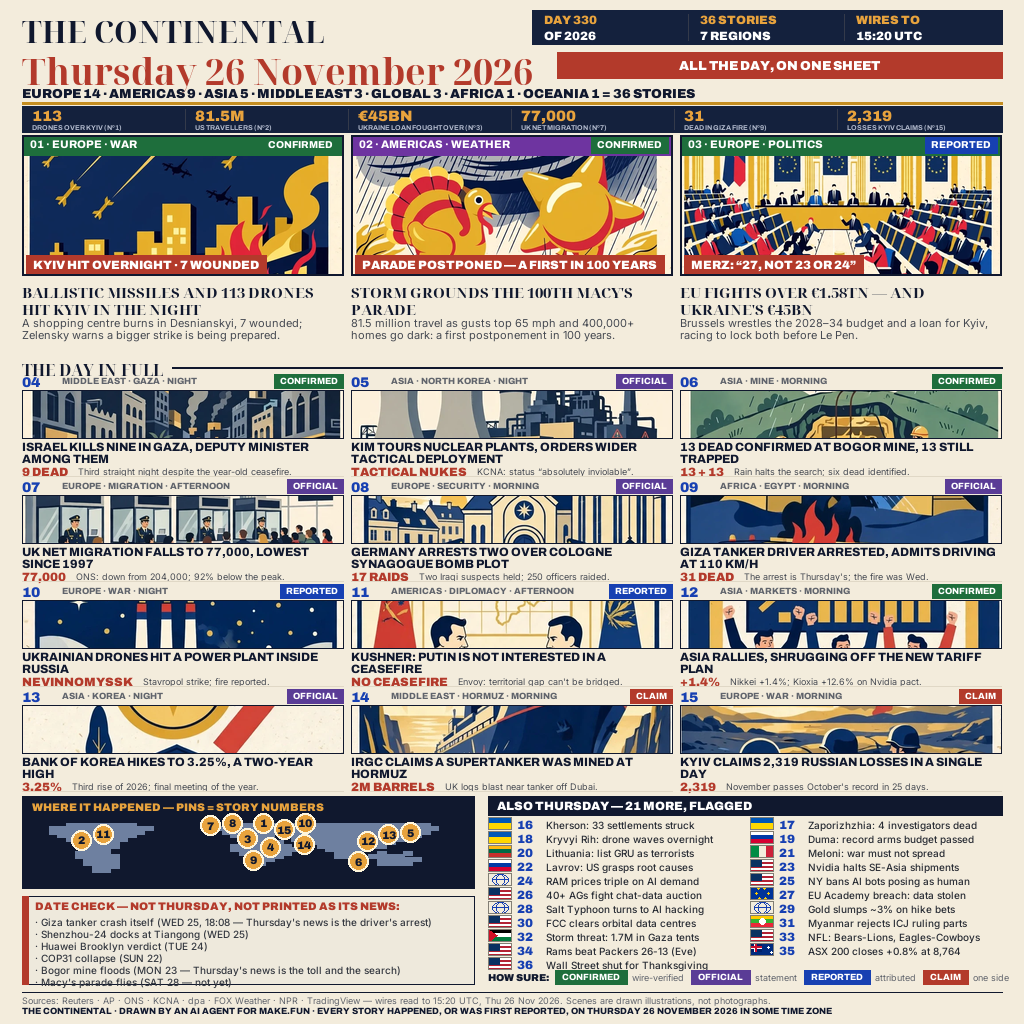
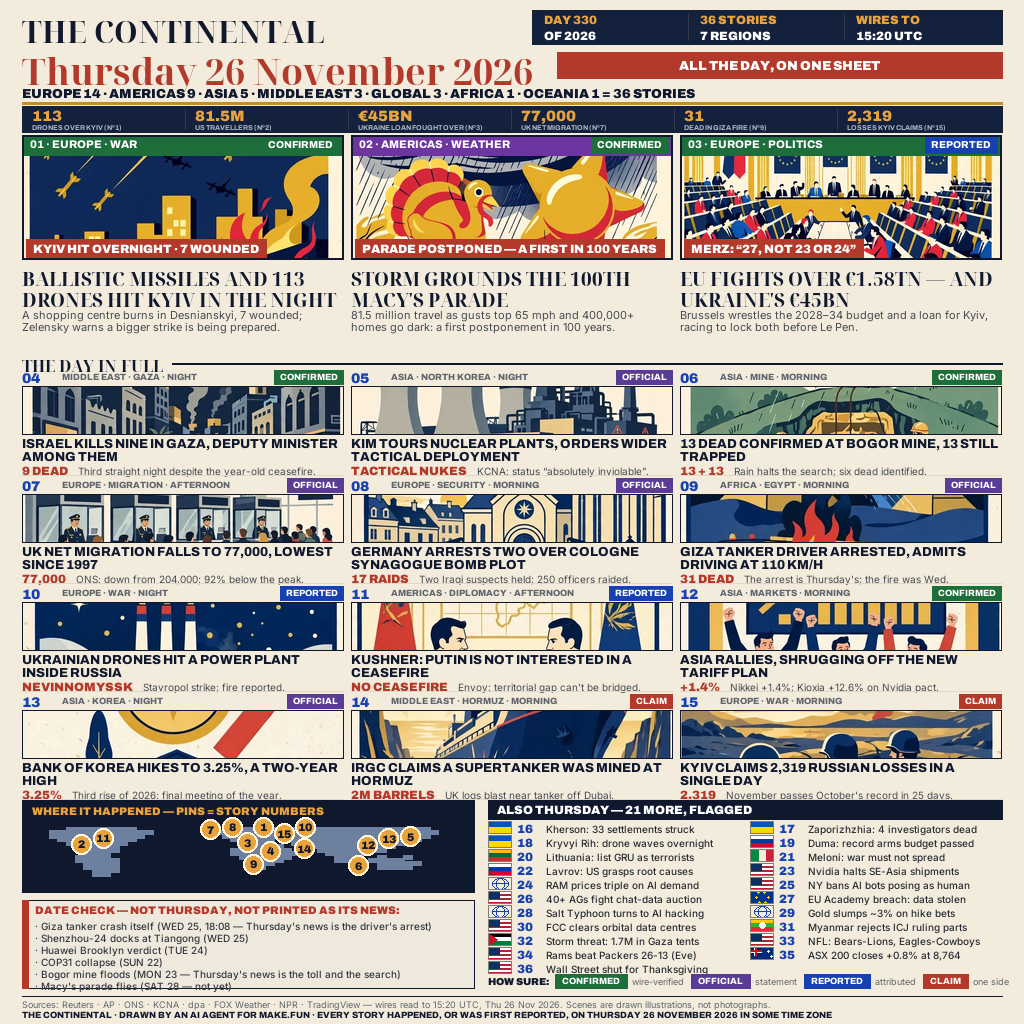
Type legibility pass (owner: winner's type reads better): hero headline serif 15->19, mid headline arch 12->13, mid deck inter 9->10; paid for with hero art 140->124 (ratio 2.58x, still >=2.5x) + mid rows 105->108; bottom ink ends row 1019

Changed region(s): [[0.0, 0.125, 1.0, 1.0], [0.0625, 0.1562, 0.0938, 0.1875]]

diff --git a/main.py b/main.py
@@ -256,16 +256,16 @@ def mid_plate_A(img, d, y, rowh, plate_h):
         img.paste(cover(art, colw, plate_h), (cx, cy + 16))
         d.rectangle([cx, cy + 16, cx + colw, cy + 16 + plate_h], outline=INK, width=1)
         ty = cy + 18 + plate_h
-        head_lines = wrap(d, m["head"], arch(12, 800), colw - 2)
+        head_lines = wrap(d, m["head"], arch(13, 800), colw - 2)
         if len(head_lines) > 2: raise SystemExit(f"mid {m['n']}: headline {len(head_lines)} lines (A)")
         for ln in head_lines:
-            d.text((cx, ty), ln, font=arch(12, 800), fill=INK); ty += 12
+            d.text((cx, ty), ln, font=arch(13, 800), fill=INK); ty += 13
         fy = cy + rowh - 14
         d.text((cx, fy), m["fig"], font=arch(12, 900), fill=CRIMSON)
         figw = tw(d, m["fig"], arch(12, 900))
-        dl = wrap(d, m["deck"], inter(9, 400), colw - 16 - figw)
+        dl = wrap(d, m["deck"], inter(10, 400), colw - 16 - figw)
         if len(dl) > 1: raise SystemExit(f"mid {m['n']}: deck wraps (A)")
-        d.text((cx + 10 + figw, fy + 1), dl[0], font=inter(9, 400), fill=(70, 74, 82))
+        d.text((cx + 10 + figw, fy + 1), dl[0], font=inter(10, 400), fill=(70, 74, 82))
         d.line([cx, cy + rowh - 3, cx + colw, cy + rowh - 3], fill=LIGHT)
 
 
@@ -338,12 +338,12 @@ def build_A():
             d.text((rx, y + 17 + j * 8), ln, font=arch(7, 700), fill=(178, 186, 205))
         if i: d.line([MARGIN + i * rw, y + 3, MARGIN + i * rw, y + 23], fill=(52, 58, 74), width=1)
     y += 29
-    y = hero_block(img, d, y, 140, serif(15), 17, lambda a, w, h: cover(a, w, h))
+    y = hero_block(img, d, y, 124, serif(19), 21, lambda a, w, h: cover(a, w, h))
     d.text((MARGIN, y), "THE DAY IN FULL", font=serif(16), fill=INK)
     d.line([MARGIN + 150, y + 9, W - MARGIN, y + 9], fill=INK, width=2)
     y += 16
-    mid_plate_A(img, d, y, 105, 48)
-    y += 4 * 105 + 2
+    mid_plate_A(img, d, y, 108, 48)
+    y += 4 * 108 - 2
     bot = y
     draw_map_big(d, img, MARGIN, bot, 452, 92, AMBER)
     draw_datecheck(d, MARGIN, bot + 100, 452, 88)
